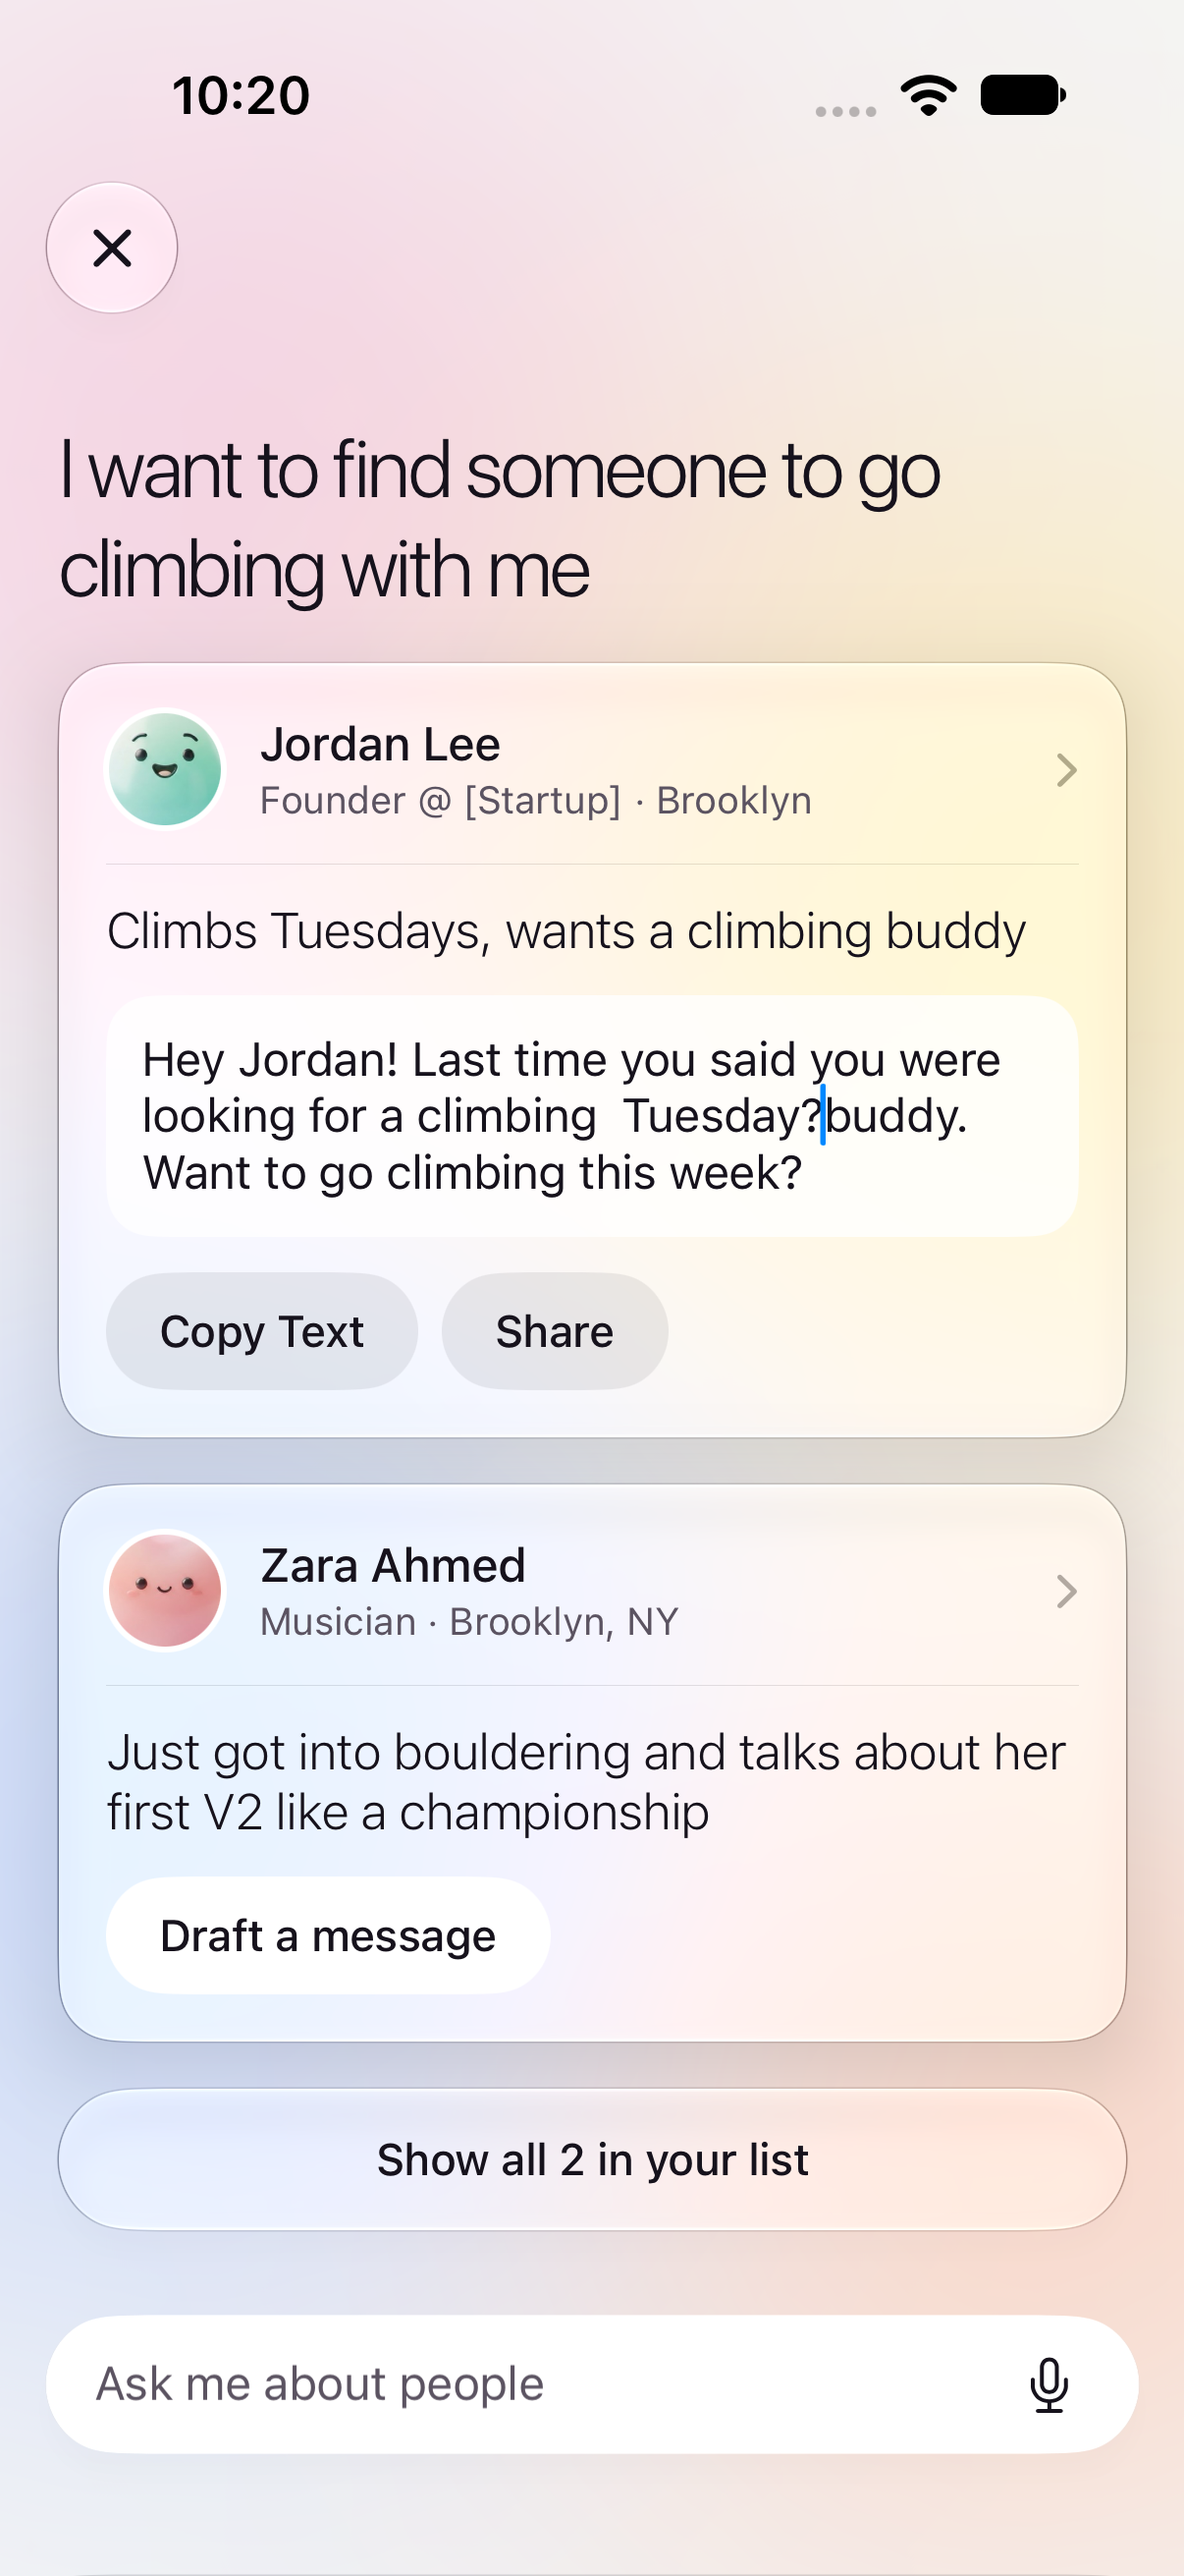
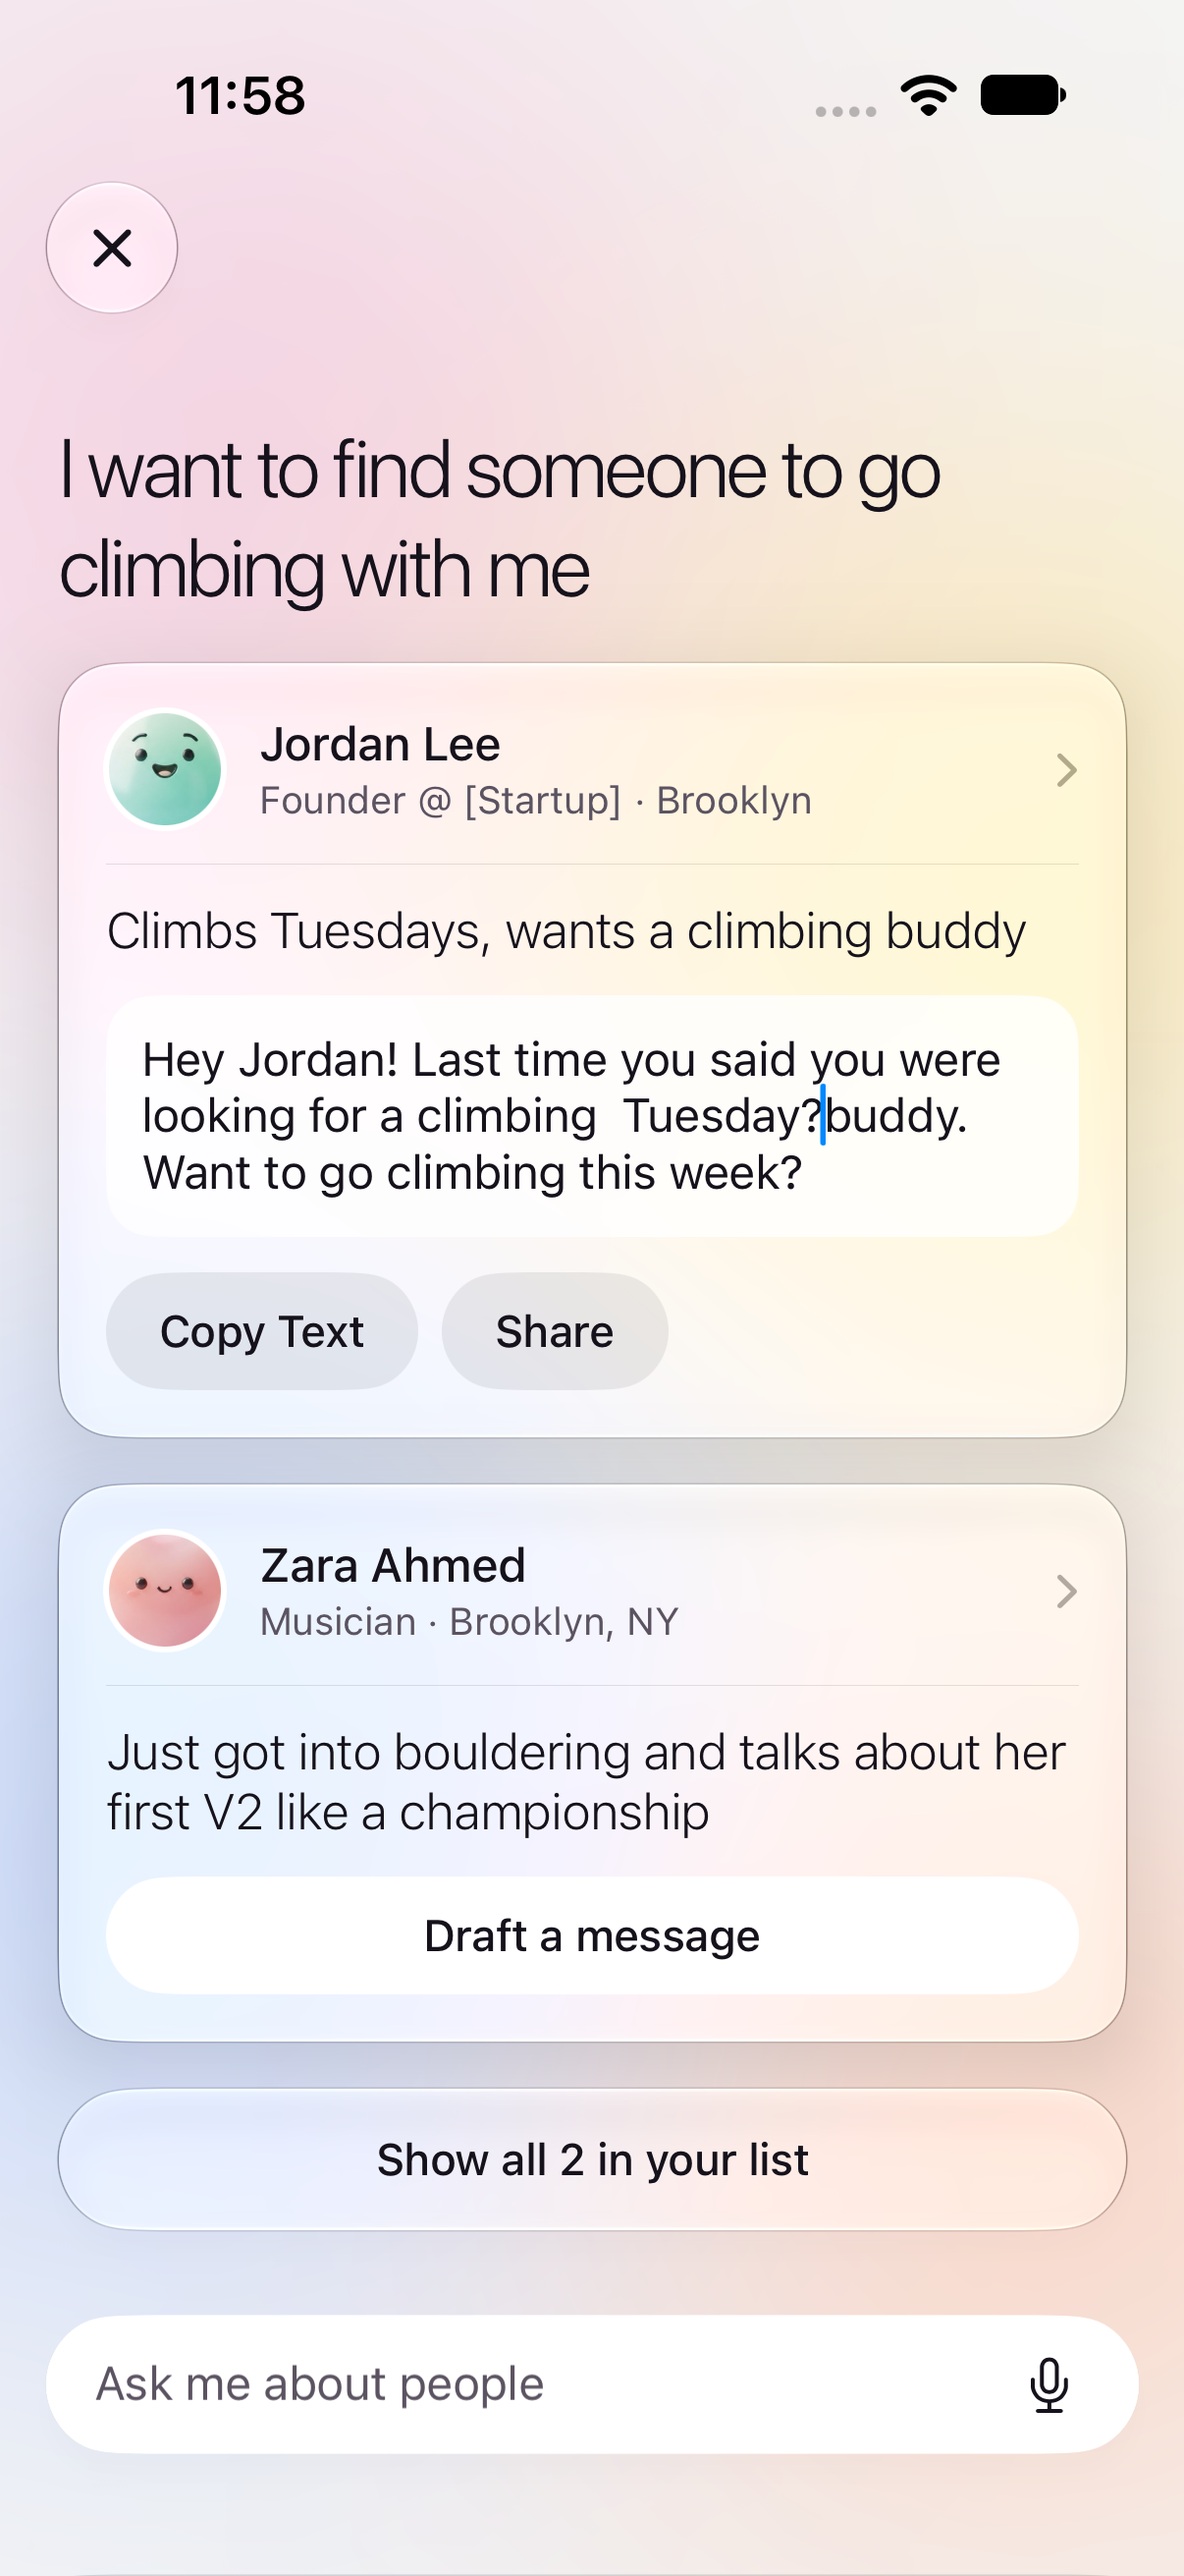
M5-5: match Figma on profile hero, section labels, grouped to-dos, Find draft button, Add heading

diff --git a/ios/Peepl/Screens/ProfileView.swift b/ios/Peepl/Screens/ProfileView.swift
@@ -111,14 +111,18 @@ struct ProfileView: View {
     }
 
     private var hero: some View {
-        VStack(spacing: 6) {
-            Avatar(id: person.id, size: 60).padding(.bottom, 6)
-            Text(person.name).font(.system(size: 20, weight: .medium)).foregroundStyle(.white)
-            Text(person.subtitle).font(.system(size: 13)).foregroundStyle(.white.opacity(0.85))
-            Text(metDate).font(.system(size: 13)).foregroundStyle(Color(hex: "cccccc"))
+        // Figma "Profile Top": 233 pt tall, avatar left, name and details beside it
+        HStack(spacing: 16) {
+            Avatar(id: person.id, size: 88)
+            VStack(alignment: .leading, spacing: 6) {
+                Text(person.name).font(.system(size: 20, weight: .medium)).foregroundStyle(.white)
+                Text(person.subtitle).font(.system(size: 13)).foregroundStyle(.white.opacity(0.85))
+                Text(metDate).font(.system(size: 13)).foregroundStyle(Color(hex: "cccccc"))
+            }
+            Spacer(minLength: 0)
         }
-        .multilineTextAlignment(.center)
-        .frame(maxWidth: .infinity).padding(.top, 150).padding(.bottom, 32)
+        .padding(.horizontal, 22).padding(.top, 118).padding(.bottom, 22)
+        .frame(maxWidth: .infinity, alignment: .leading)
         .background {
             ZStack {
                 Color(hex: blob.base)
@@ -187,31 +191,33 @@ struct ProfileView: View {
     private var todos: some View {
         VStack(alignment: .leading, spacing: 8) {
             header("Things to do with \(person.firstName)")
-            ForEach(person.todos.sorted { $0.id < $1.id }) { t in
-                Button { t.done.toggle(); try? context.save() } label: {
-                    HStack(spacing: 12) {
-                        Image(systemName: t.done ? "checkmark.circle.fill" : "circle").foregroundStyle(t.done ? Theme.ink : Theme.inkMuted)
+            // Figma: one card, rows split by hairlines
+            VStack(spacing: 0) {
+                ForEach(person.todos.sorted { $0.id < $1.id }) { t in
+                    Button { t.done.toggle(); try? context.save() } label: {
                         Text(t.text).strikethrough(t.done).font(.system(size: 15)).foregroundStyle(Theme.ink)
                             .frame(maxWidth: .infinity, alignment: .leading)
+                            .opacity(t.done ? 0.45 : 1).padding(.horizontal, 16).padding(.vertical, 14).contentShape(.rect)
                     }
-                    .opacity(t.done ? 0.5 : 1).padding(14).glass(16)
+                    .buttonStyle(.plain)
+                    .accessibilityLabel(t.text).accessibilityValue(t.done ? "Done" : "To do")
+                    Divider().padding(.leading, 16)
                 }
-                .buttonStyle(.plain)
-                .accessibilityLabel(t.text).accessibilityValue(t.done ? "Done" : "To do")
-            }
-            if addingTodo {
-                InlineField(placeholder: "Something to do with \(person.firstName)", size: 15, onDone: addTodo).padding(14).glass(16)
-            } else {
-                Button { addingTodo = true } label: {
-                    HStack(spacing: 8) {
-                        Image(systemName: "plus").font(.system(size: 12, weight: .semibold))
-                        Text("Add something to do").font(.system(size: 14))
-                        Spacer()
+                if addingTodo {
+                    InlineField(placeholder: "Something to do with \(person.firstName)", size: 15, onDone: addTodo).padding(16)
+                } else {
+                    Button { addingTodo = true } label: {
+                        HStack(spacing: 8) {
+                            Image(systemName: "plus").font(.system(size: 12, weight: .semibold))
+                            Text("Add something to do").font(.system(size: 14))
+                            Spacer()
+                        }
+                        .foregroundStyle(Theme.inkMuted).padding(16).contentShape(.rect)
                     }
-                    .foregroundStyle(Theme.inkMuted).padding(14).glass(16)
+                    .buttonStyle(.plain)
                 }
-                .buttonStyle(.plain)
             }
+            .glass(16)
         }
     }
 
@@ -305,7 +311,7 @@ struct ProfileView: View {
     }
 
     private func header(_ s: String) -> some View {
-        Text(s).font(.system(size: 18, weight: .medium)).tracking(-0.5).foregroundStyle(Theme.ink)
+        Text(s.uppercased()).font(.system(size: 11, design: .monospaced)).tracking(0.6).foregroundStyle(Theme.inkMuted).accessibilityLabel(s)
     }
 }
 

diff --git a/ios/Peepl/Screens/FindView.swift b/ios/Peepl/Screens/FindView.swift
@@ -188,7 +188,7 @@ private struct FindCard: View {
                         Task { text = await AIClient.draft(p, action: action); writing = false }
                     } label: {
                         Text(action.label).font(.system(size: 15, weight: .medium)).foregroundStyle(Theme.ink)
-                            .padding(.horizontal, 18).frame(height: 40).background(.white, in: .capsule)
+                            .frame(maxWidth: .infinity).frame(height: 40).background(.white, in: .capsule)
                     }.buttonStyle(.plain)
                 } else {
                     TextField("", text: Binding(get: { text ?? "" }, set: { text = $0 }), prompt: Text(writing ? "Writing…" : ""), axis: .vertical)

diff --git a/ios/Peepl/Screens/AddView.swift b/ios/Peepl/Screens/AddView.swift
@@ -53,7 +53,7 @@ struct AddView: View {
                 VStack(alignment: .leading, spacing: 16) {
                     switch phase {
                     case .idle:
-                        title(heading)
+                        title(heading).padding(.top, 60) // Figma 2.2b: the heading sits a third of the way down
                     case .choosing(let c):
                         bubble
                         title("Which \(c[0].firstName) did you catch up with?")

diff --git a/ios/PeeplUITests/M5FlowUITests.swift b/ios/PeeplUITests/M5FlowUITests.swift
@@ -52,6 +52,7 @@ final class M5FlowUITests: XCTestCase {
         let app = launch(["-findQuery", "open Jordan Lee"]) // Find -> "Opening Jordan Lee…" -> profile
         XCTAssertTrue(app.buttons["More"].waitForExistence(timeout: 30))
 
+        shot("M5-profile-top")
         // a to-do ticks off, and stays ticked
         let todo = app.buttons["Intro to someone in hardware"]
         XCTAssertEqual(todo.value as? String, "To do")

diff --git a/.orchestration/reports/M5-audit.md b/.orchestration/reports/M5-audit.md
@@ -89,3 +89,7 @@ Unit 112 / UI 15 on `Peepl-M4`, all passing. Every "fixed" row above was checked
 - `M5-debug.png` was scratch and is deleted.
 - M3 / F3 "Show all" on the mindmap: the filter pill and the narrowed list are verified, but `M5-show-all-mindmap.png` shows **no dots**. Cause: the two climbers are unlinked, the layout pushes them ~1600 world px apart, and `fitZoom` 1.6 (same constant and formula as the web's `FIT_ZOOM`) puts both just off the edges of the screen. Same behaviour as the web, so left; a human call whether a 2-person filter should fit tighter.
 - `M5-find-closes-todo.png` shows the profile with the keyboard up, not the ticked to-do; the tick itself is asserted in the test.
+
+### Figma match (profile, Find, Add)
+Compared with the "FINAL DESIGN" page (frames 2.6, 6.4, 2.2b): profile hero is now left-aligned (88 pt avatar, name beside it, ~233 pt tall); section labels are small uppercase mono; to-dos are one card split by hairlines with no tick circles (done = strikethrough); Find's Draft button is full width; Add's idle heading sits lower. Not matched: Geist font, grain texture, Find heading size/colour, "Show all" (in the app, not the frame), moment-quote "why" text.
+Note: screenshots are only written when the variable is passed as `TEST_RUNNER_M5_SHOT_DIR`; the `M5_SHOT_DIR` runs earlier in this round did not overwrite anything, so `M5-show-all-mindmap.png` was not re-taken after `sleep(8)`. The off-screen-dots finding rests on a throwaway unit test (nodes ±797 world px at k 0.288), not on that screenshot.
